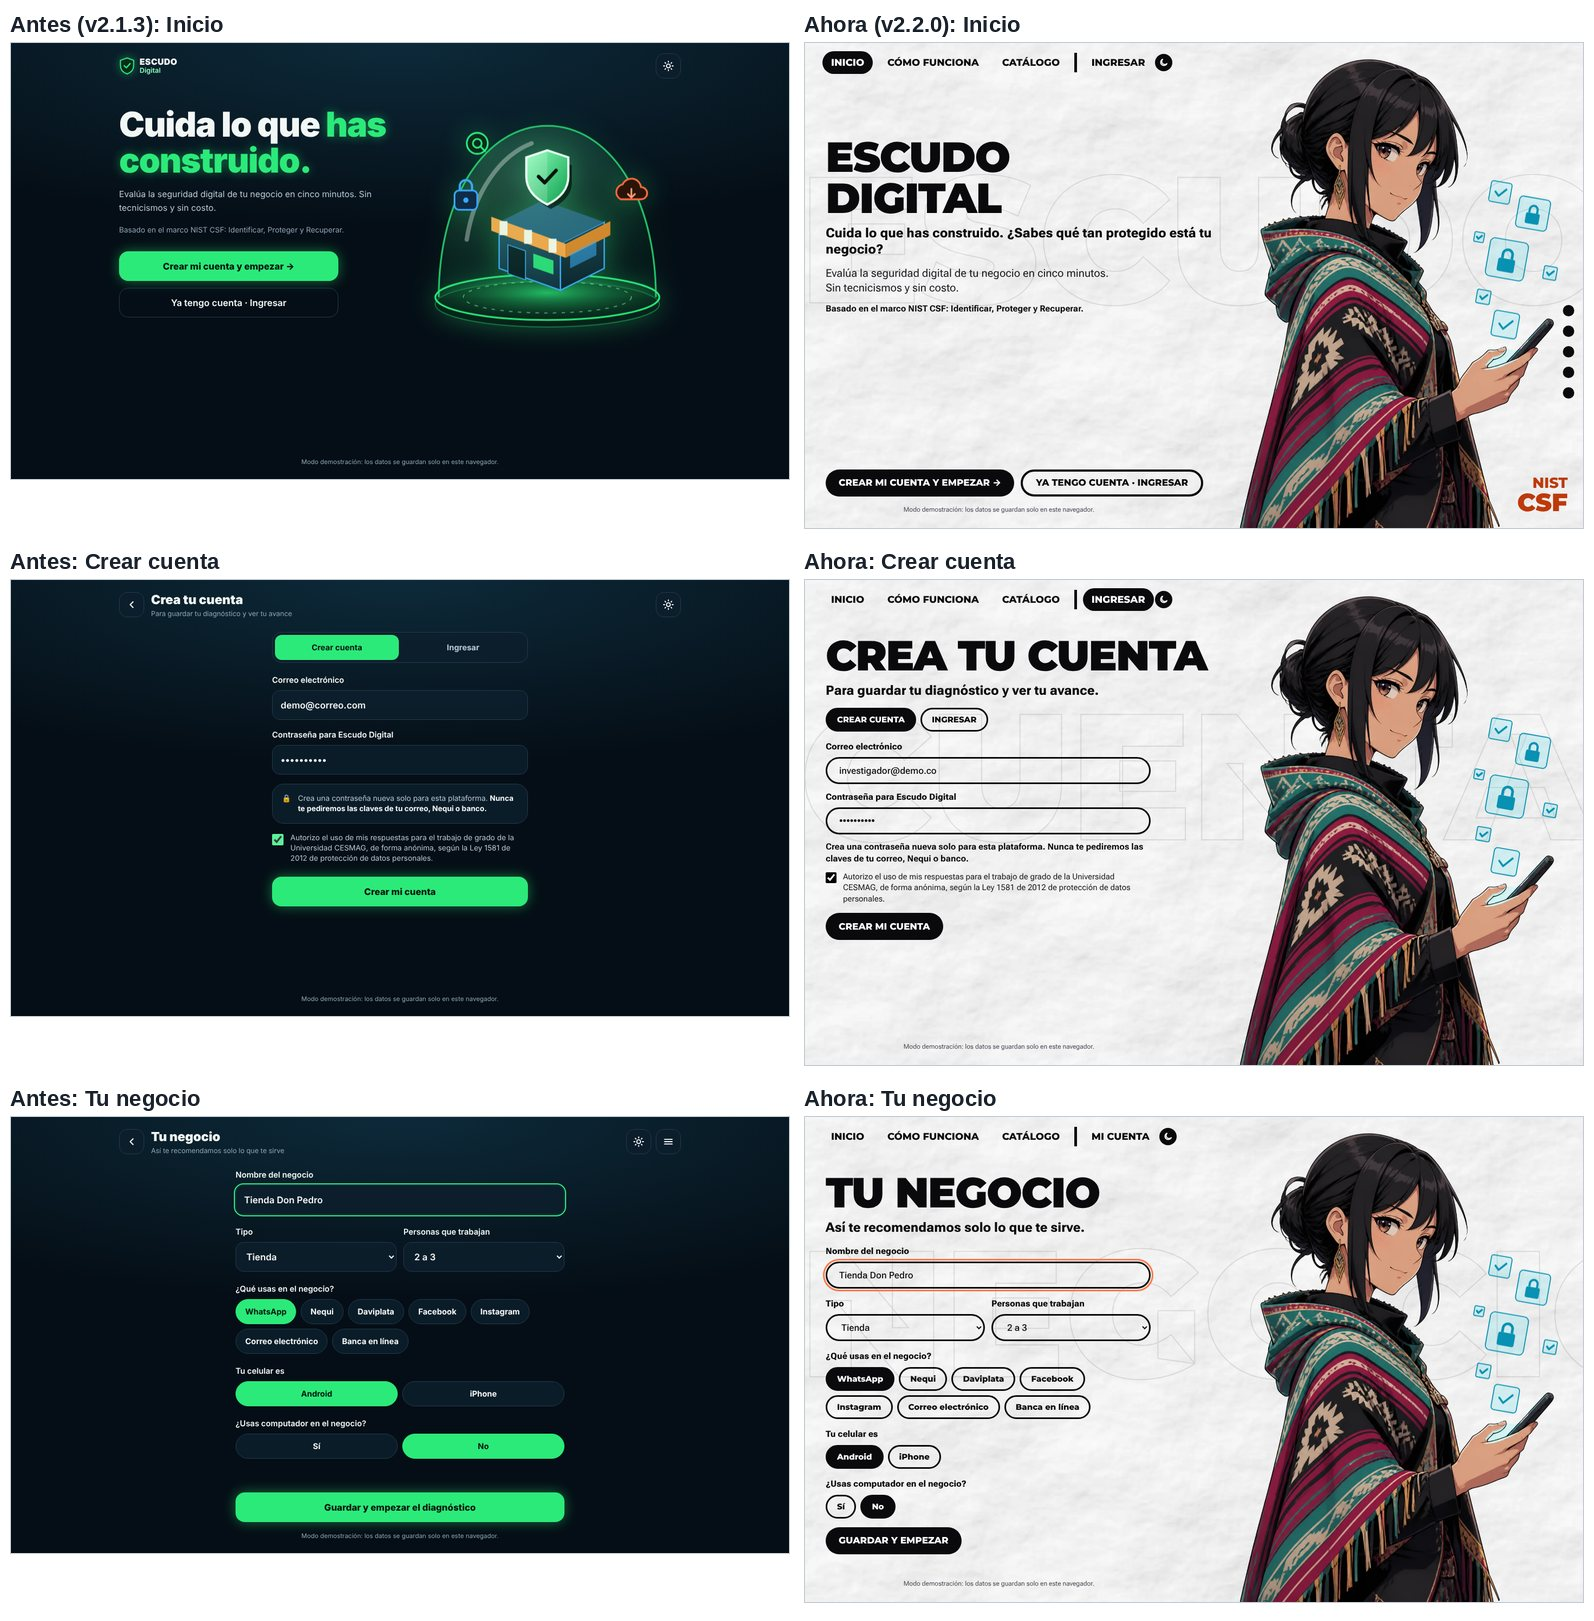
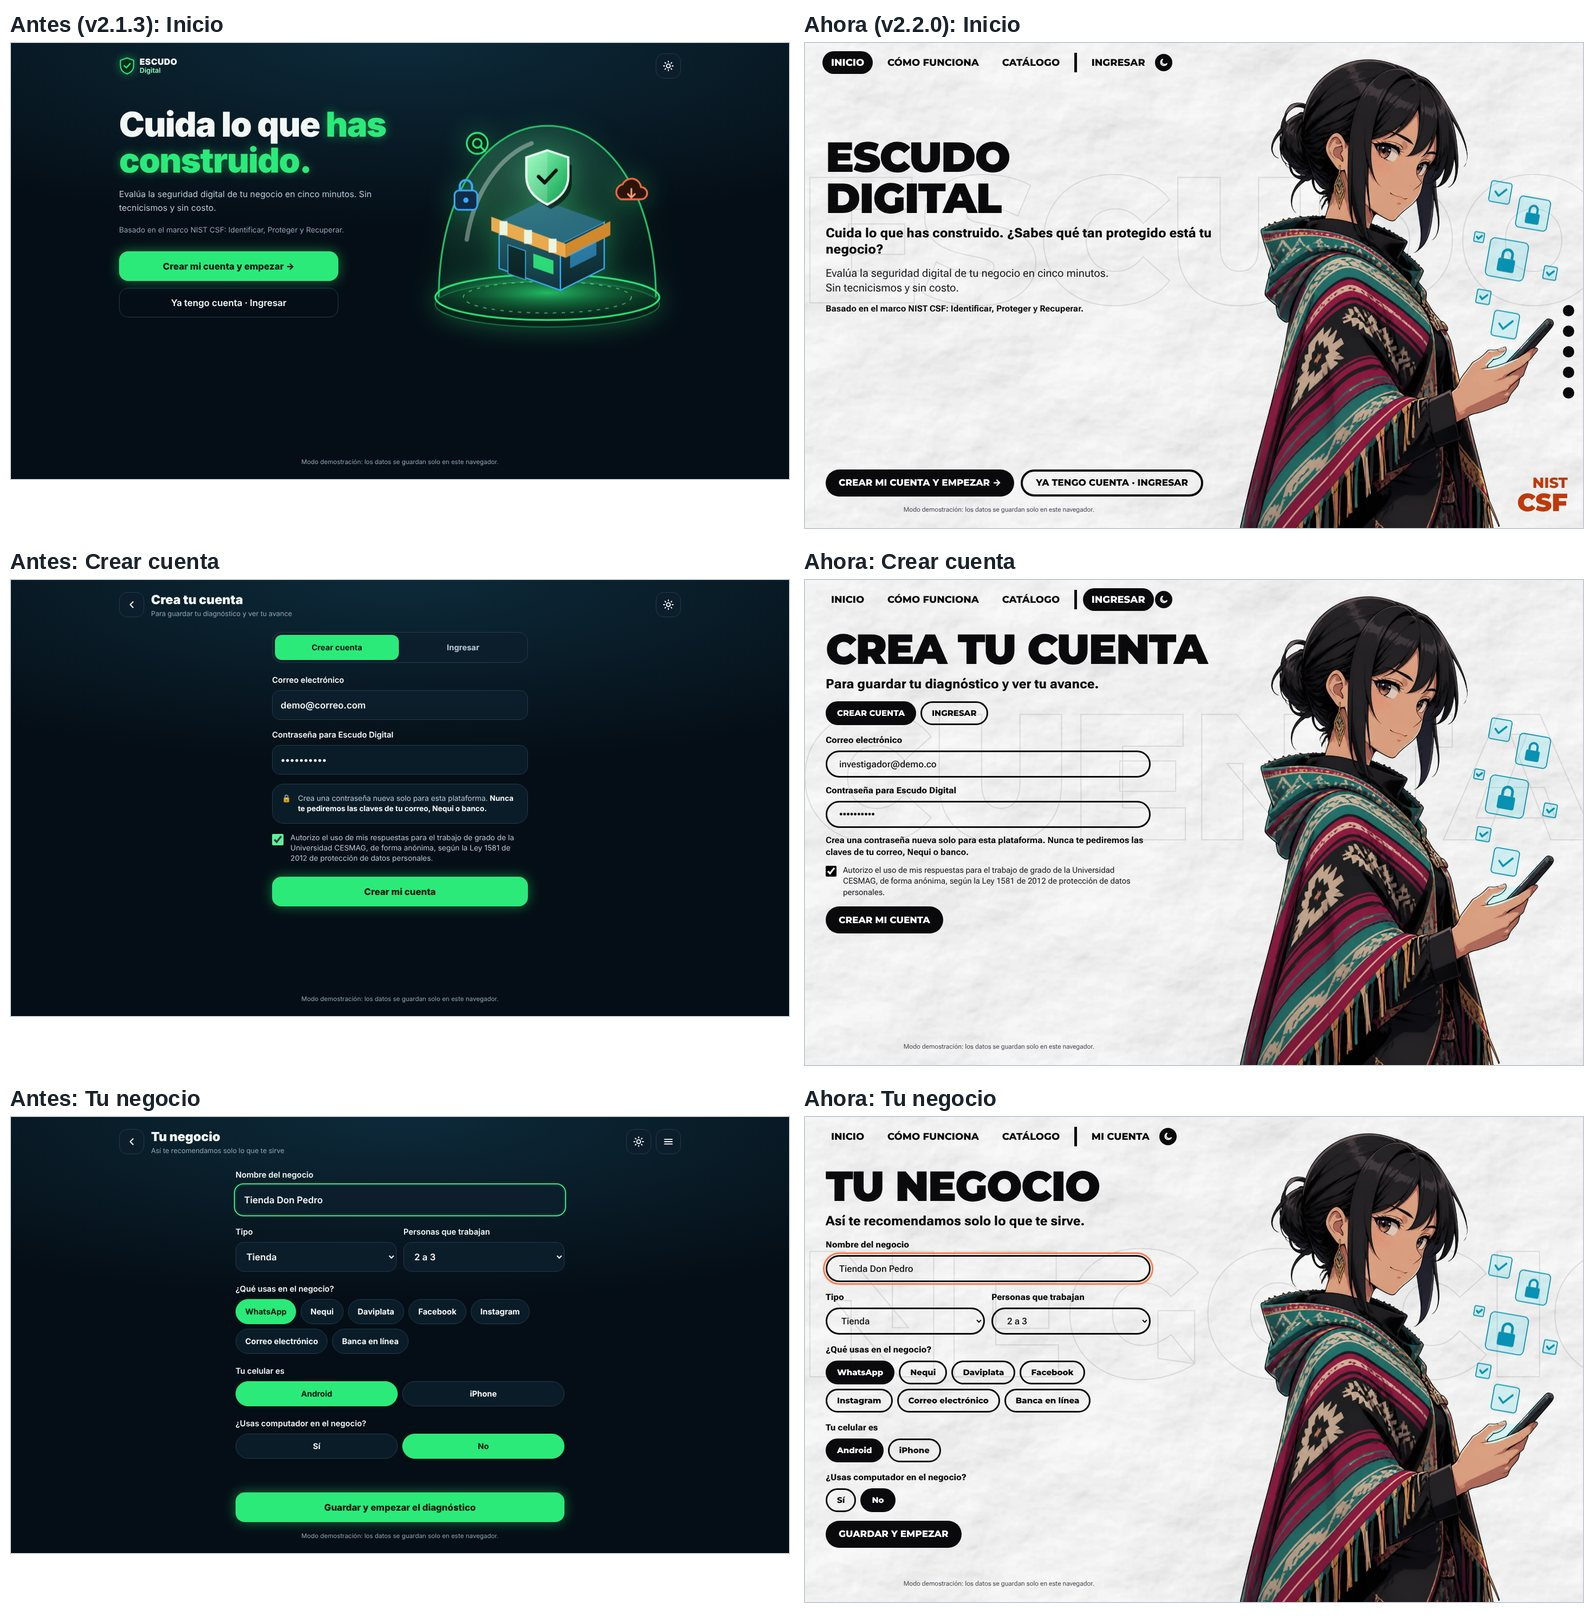
Documentación: informe del objetivo 3 con el diseño publicado y el último ajuste
Claude-Session: https://claude.ai/code/session_01Yb8envh74c6vDebcTLmghr

Changed region(s): [[0.4918, 0.7094, 0.7378, 0.9562], [0.5226, 0.3701, 0.7685, 0.5861]]

diff --git a/docs/objetivo-3/README.md b/docs/objetivo-3/README.md
@@ -8,7 +8,7 @@ Este informe cuenta, en orden y con evidencias, cómo se ha trabajado el objetiv
 
 **Objetivo específico 3.** Implementar una plataforma web que, a partir de los resultados del diagnóstico, genere recomendaciones personalizadas de herramientas de ciberseguridad adecuadas al perfil de riesgo de cada microcomercio.
 
-**Estado al 5 de noviembre de 2026: el objetivo está en desarrollo, no terminado.** La plataforma funciona, guarda datos reales y genera recomendaciones por reglas. Falta validar las preguntas con el asesor, corregir dos enlaces, completar las guías de respaldo y hacer las pruebas de uso. De las 25 historias de usuario, 21 están hechas, 1 está en curso y 3 están por hacer.
+**Estado al 6 de noviembre de 2026: el objetivo está en desarrollo, no terminado.** La plataforma funciona, guarda datos reales y genera recomendaciones por reglas. Falta validar las preguntas con el asesor, corregir dos enlaces, completar las guías de respaldo y hacer las pruebas de uso. De las 25 historias de usuario, 21 están hechas, 1 está en curso y 3 están por hacer.
 
 **Tres palabras que se repiten.** Un *commit* es un cambio guardado en GitHub, con fecha y código propio, como bc39ede. Una *rama* es una copia de trabajo del proyecto. Un *pull request* es la solicitud para unir una rama a la principal, que es la que se publica.
 
@@ -21,8 +21,8 @@ Este informe cuenta, en orden y con evidencias, cómo se ha trabajado el objetiv
 | Cálculo del nivel y motor de recomendaciones por reglas | Hecho, con 3 pruebas automáticas | src/lib; tests/motor.test.ts |
 | Catálogo de 33 herramientas con filtros | Funciona; faltan 2 enlaces (HU-18) | src/data/catalogo.json |
 | Cuentas y base de datos conectadas | Hecho y probado con dos cuentas | Sección V-E |
-| Publicación en internet | Hecho. La página pública aún muestra el diseño anterior | Sección VIII |
-| Nuevo diseño (HU-25) | Hecho en GitHub; pendiente de revisión y publicación | Sección VI |
+| Publicación en internet | Hecho. La página pública ya muestra el diseño nuevo | Sección VIII |
+| Nuevo diseño (HU-25) | Publicado; falta la revisión del asesor | Sección VI |
 | Guías de respaldo y restauración (HU-19) | En curso | Sección IX |
 | Pruebas internas de uso, ISO/IEC 25010 (HU-20) | Por hacer | Sección V-F |
 
@@ -231,6 +231,8 @@ El proceso tomó dos sesiones. La TABLA VII resume las decisiones. Las horas son
 | 01:39–01:54 | Ajustes del modo oscuro y de los títulos. | Fondo más oscuro y sin textura, porque se veía pixelado. Títulos en naranja. |
 | 13:40–13:57 | Cambio de la imagen principal. | El robot con la tienda se ve infantil: usa a la mujer con ruana y quita la firma «Hecho en Pasto». |
 | 22:41–22:58 | Se comprueba y se sube a GitHub. | Pide subirlo y documentar el proceso. |
+| 05/11, 23:36 | Une el pull request #3 y la página pública pasa al diseño nuevo. | Lo publica antes de la revisión con el asesor. |
+| 06/11, 00:07–00:10 | Último ajuste, subido a GitHub (commit cbf3a61). | «Tu negocio» también va en naranja en modo oscuro. |
 
 ![Primeras 12 propuestas de pantalla inicial (ninguna elegida)](img/propuestas-12.jpg)
 
@@ -252,7 +254,7 @@ La página de referencia en estilo anime no se reproduce aquí porque usa un per
 
 ### C. Antes y ahora
 
-El «antes» es la versión del commit bbb5824 (v2.1.3) y el «ahora» la del commit d9225b5 (v2.2.0). Todas las capturas se tomaron en modo demostración, con datos de ejemplo.
+El «antes» es la versión del commit bbb5824 (v2.1.3) y el «ahora» la del commit cbf3a61 (v2.2.0). Todas las capturas se tomaron en modo demostración, con datos de ejemplo.
 
 ![Antes y ahora: Inicio, Crear cuenta y Tu negocio](img/antes-ahora-1.jpg)
 
@@ -270,11 +272,11 @@ El «antes» es la versión del commit bbb5824 (v2.1.3) y el «ahora» la del co
 
 *Fig. 19. Antes y ahora en el celular. Fuente: elaboración propia.*
 
-**Sobre los logos.** En las capturas del «ahora» los logos aparecen como una letra porque el equipo de prueba no tenía acceso al servicio que los entrega; así se comporta la plataforma cuando no carga un logo. La Fig. 20 muestra el catálogo público el 5 de noviembre, con la versión anterior: cargaron los 33 logos. Hay que repetir esta comprobación cuando se publique el nuevo diseño.
+**Sobre los logos.** En las capturas del «ahora» los logos aparecen como una letra porque el equipo de prueba no tenía acceso al servicio que los entrega; así se comporta la plataforma cuando no carga un logo. La Fig. 20 muestra el catálogo público con el diseño nuevo, el 6 de noviembre: cargaron los 33 logos.
 
-![Catálogo publicado con los logos originales (versión anterior)](img/ev-logos.jpg)
+![Catálogo publicado con el diseño nuevo y los logos originales](img/ev-logos-nuevo.jpg)
 
-*Fig. 20. Catálogo publicado con los logos originales (versión anterior). Fuente: captura de la página pública, 5 de noviembre de 2026.*
+*Fig. 20. Catálogo publicado con el diseño nuevo y los logos originales. Fuente: captura de la página pública, 6 de noviembre de 2026.*
 
 ![Versión 2.2.0 en modo oscuro](img/final-oscuro.jpg)
 
@@ -286,7 +288,7 @@ El «antes» es la versión del commit bbb5824 (v2.1.3) y el «ahora» la del co
 
 ### D. Qué cambió y qué no
 
-El cambio tocó 22 archivos de la interfaz. Las carpetas de lógica, datos, servicios y base de datos, y las pruebas, tienen cero cambios entre los dos commits. **La plataforma evalúa y recomienda exactamente igual; cambió cómo se ve.**
+El cambio tocó 22 archivos de la interfaz. Las carpetas de lógica, datos, servicios y base de datos, y las pruebas, no tienen ningún cambio entre las dos versiones. **La plataforma evalúa y recomienda exactamente igual; cambió cómo se ve.**
 
 **TABLA VIII. Qué cambió y qué se mantuvo en la versión 2.2.0**
 
@@ -455,9 +457,9 @@ Como bocetos se usaron las muestras de pantalla de la sección VI y las de la et
 
 Todo el código y la documentación técnica están en el repositorio [15]. Se trabaja en la rama version-2; cada etapa se cierra uniendo a main con un pull request, y al llegar a main la plataforma se publica sola. El historial completo está en el Anexo B.
 
-![Commits por fecha en la rama version-2 (40, sin contar esta documentación)](img/commits.png)
+![Commits por fecha en la rama version-2 (41, sin contar esta documentación)](img/commits.png)
 
-*Fig. 32. Commits por fecha en la rama version-2 (40, sin contar esta documentación). Fuente: historial de Git del repositorio, 5 de noviembre de 2026.*
+*Fig. 32. Commits por fecha en la rama version-2 (41, sin contar esta documentación). Fuente: historial de Git del repositorio, 5 de noviembre de 2026.*
 
 ![Historial de la rama version-2 en GitHub](img/ev-commits.jpg)
 
@@ -469,11 +471,12 @@ Todo el código y la documentación técnica están en el repositorio [15]. Se t
 |---|---|---|---|---|
 | #1 | Versión 2 de la plataforma | 31/10/2026, 00:07 | 02/11/2026, 23:35 | 27 commits, 74 archivos |
 | #2 | Corrección del modo demostración | 03/11/2026, 15:44 | 03/11/2026, 15:45 | 2 commits, 4 archivos |
-| #3 | Nuevo diseño y esta documentación | 05/11/2026 | Abierto, sin unir | En revisión |
+| #3 | Nuevo diseño y documentación | 05/11/2026, 23:14 | 05/11/2026, 23:36 | 9 commits, 64 archivos |
+| #4 | Último ajuste de «Tu negocio» y actualización de este informe | 06/11/2026 | Abierto, sin unir | En revisión |
 
 **Tres cosas que conviene tener presentes:**
 
-- **La página pública sigue mostrando el diseño «Neón»** hasta que se una el pull request #3 a main. El nuevo diseño está en la rama version-2.
+- **La página pública ya muestra el diseño «Papel»**, desde el 5 de noviembre a las 23:36. El título naranja de «Tu negocio» se publica al unir el pull request #4.
 - **La versión anterior no se pierde.** Queda en el commit bbb5824. Las marcas de versión v2.1.3 y v2.2.0 las debe crear el investigador desde su computador, porque el entorno de trabajo no permite enviarlas.
 - **Autoría.** En el historial, muchos commits aparecen a nombre de «Claude», el asistente con el que se programó. Los pull requests los unió el investigador.
 
@@ -603,6 +606,7 @@ Rama version-2, del más reciente al más antiguo, en hora de Colombia. Se exclu
 
 | Commit | Fecha | Hora | Autor | Mensaje |
 |---|---|---|---|---|
+| cbf3a61 | 06/11/2026 | 00:10 | Claude | HU-25: título de «Tu negocio» en naranja en modo oscuro |
 | d9225b5 | 05/11/2026 | 22:58 | Claude | HU-25: catálogo y «Mi avance» con el nuevo diseño |
 | 22d2e60 | 05/11/2026 | 22:58 | Claude | HU-25: cuestionario, resultado y ruta con escudo y anillos en 3D |
 | e4129ca | 05/11/2026 | 22:58 | Claude | HU-25: crear cuenta y datos del negocio con el nuevo diseño |

diff --git a/CHANGELOG.md b/CHANGELOG.md
@@ -4,17 +4,17 @@ Registro de la evolución de la plataforma para la trazabilidad del trabajo de g
 
 ## v2.2.0 — Nuevo diseño (5 nov. 2026)
 
-El investigador no quedó conforme con el estilo «Neón» y eligió uno nuevo después de ver más de 20 propuestas. Está en la rama `version-2` (commits `bc39ede` a `d9225b5`) y en el pull request #3, **sin unir a `main`**: la página pública sigue con la versión anterior hasta que se una. La versión anterior queda en el commit `bbb5824` (v2.1.3).
+El investigador no quedó conforme con el estilo «Neón» y eligió uno nuevo después de ver más de 20 propuestas. Se publicó el 5 de noviembre a las 23:36 con el pull request #3 (commits `bc39ede` a `d9225b5`). El 6 de noviembre se agregó un último ajuste (`cbf3a61`). La versión anterior queda en el commit `bbb5824` (v2.1.3).
 
 - **HU-25:** estilo «Papel»: fondo de papel arrugado en modo claro, fondo plano en modo oscuro, títulos grandes, botones redondeados y panel diagonal. Se mantiene la adaptación a computador y celular.
 - La pantalla inicial usa los textos definidos por el investigador. Inicio, Crear cuenta y Tu negocio llevan una ilustración de una mujer con ruana usando su celular; el investigador la prefirió a la escena del robot con la tienda porque esta se veía infantil. Un robot pequeño acompaña en las demás ventanas. Las imágenes se generaron con inteligencia artificial; la plataforma no usa inteligencia artificial para diagnosticar ni recomendar.
 - Nueva ventana «Cómo funciona»: qué es la plataforma, sus 5 pasos, las tres funciones con ejemplos reales del cuestionario, por qué existe, cómo se recomienda y cómo se usan los datos.
 - Escudo en 3D en el cuestionario y anillos en 3D con porcentaje y animación en el resultado.
-- En modo oscuro, los títulos de Inicio, Cómo funciona, Catálogo y Mi avance van en naranja.
+- En modo oscuro, los títulos de Inicio, Cómo funciona, Catálogo, Mi avance y Tu negocio van en naranja.
 - La explicación de cada pregunta ahora se ve siempre, sin tener que tocar un botón.
 - «Mi avance» muestra todos los diagnósticos y cuánto ha subido el negocio. Cada herramienta sigue mostrando su logo y su sitio oficial.
 - No cambiaron las preguntas, el puntaje, las recomendaciones, el catálogo ni la base de datos. Los componentes `Anillo`, `Marca` y `Tienda3D` quedaron sin uso.
-- Prueba: compilación, 3 pruebas automáticas y recorrido en modo demostración por las pantallas, en claro y oscuro, en computador y celular. El investigador lo revisó en su computador. Falta la revisión del asesor y las pruebas con usuarios.
+- Prueba: compilación, 3 pruebas automáticas y recorrido en modo demostración por las pantallas, en claro y oscuro, en computador y celular. El investigador lo revisó en su computador y los 33 logos cargan en la página publicada. Falta la revisión del asesor y las pruebas con usuarios.
 
 Documentación: [proceso completo del objetivo 3](docs/objetivo-3/README.md).
 
